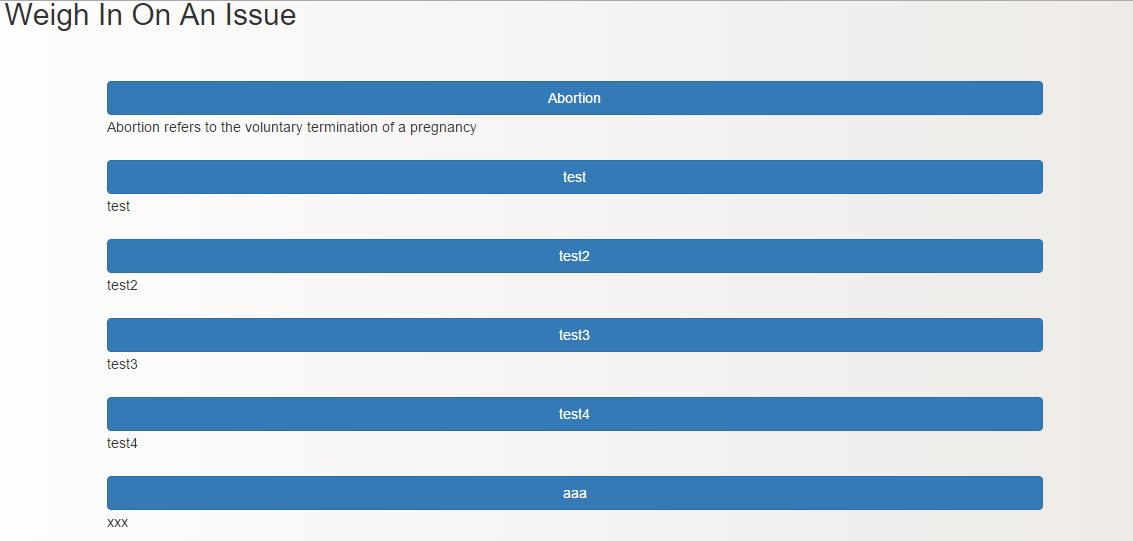
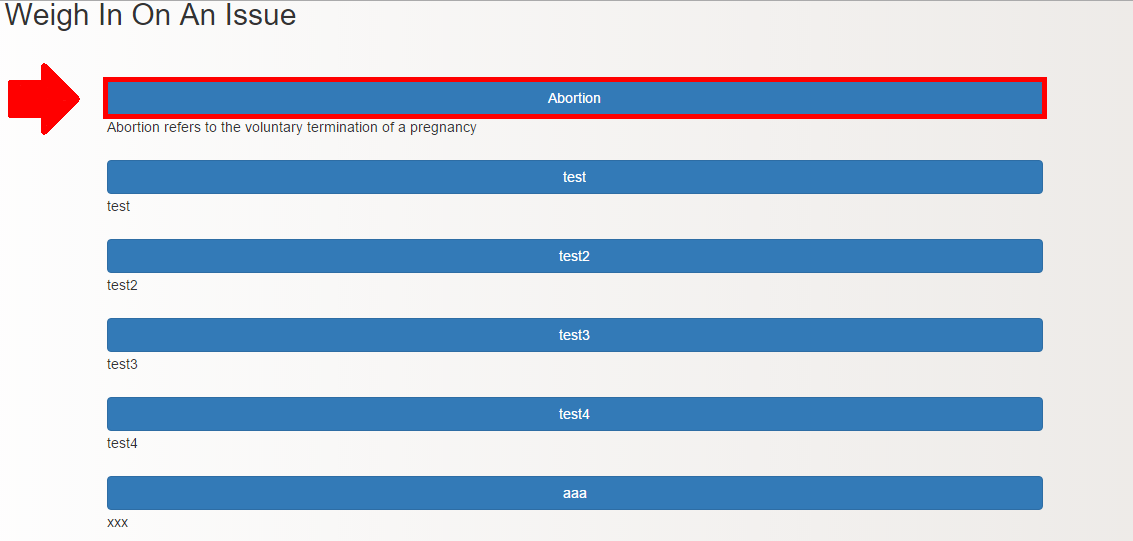
Added help page text content. Added some image highlights. Added 'Contact Us' and 'About Us' tabs. Removed 'Getting Started' tab

Changed region(s): [[0.0, 0.1183, 0.9267, 0.2366]]

diff --git a/public/dev/pages/help.html b/public/dev/pages/help.html
@@ -1,41 +1,93 @@
 <div ng-controller="help-controller as help">
     <div class="container">
         <ul class="nav nav-pills nav-justified">
-            <li class="active"><a style="cursor:pointer" data-toggle="pill" data-target="#menu1">Getting Started</a></li>
-            <li><a style="cursor:pointer" data-toggle="pill" data-target="#menu2">Choosing an Issue</a></li>
-            <li><a style="cursor:pointer" data-toggle="pill" data-target="#menu3">Weighing In</a></li>
-            <li><a style="cursor:pointer" data-toggle="pill" data-target="#menu4">Interpreting Results</a></li>
-            <li><a style="cursor:pointer" data-toggle="pill" data-target="#menu5">FAQ</a><li>
+            <li class="active"><a style="cursor:pointer" data-toggle="pill" data-target="#menu1">Choosing an Issue</a></li>
+            <li><a style="cursor:pointer" data-toggle="pill" data-target="#menu2">Weighing In</a></li>
+            <li><a style="cursor:pointer" data-toggle="pill" data-target="#menu3">Interpreting Results</a></li>
+            <li><a style="cursor:pointer" data-toggle="pill" data-target="#menu4">About Us</a></li>
+            <li><a style="cursor:pointer" data-toggle="pill" data-target="#menu5">Contact Us</a></li>
         </ul>
 
         <div class="tab-content">
             <div id="menu1" class="tab-pane fade in active">
-                <h3>Getting Started</h3>
-                <p>Welcome to DemocracyLab!</p>
-                <p style="text-align: center"><img src="./images/login.png" style="max-width: 100%; height: auto"></p>
-                <p>Test test test</p>
-                <p style="text-align: center"><img src="./images/create_account.png" style="max-width: 100%; height: auto"></p>
+                <h3>Choosing an Issue</h3>
+                <p><img src="./images/issues.png" style="max-width: 60%; height: auto; float: right; padding-left: 1%">
+                After signing in you will be shown a list of issues to weigh in on. If you see an issue that you would like to express your opinion on, just
+                click on the blue bar and a poll will drop down below it. This takes us to our next step: Weighing In!</p>
             </div>
             <div id="menu2" class="tab-pane fade">
-                <h3>Choosing an Issue</h3>
-                <p></p>
-                <p style="text-align: center"><img src="./images/issues.png" style="max-width: 100%; height: auto"></p>
-
+                <h3>Weighing In</h3>
+                <p><img src="./images/weigh_in.png" style="max-width: 60%; height: auto; float: right; padding-left: 1%">
+                Once an issue has been selected, it's time to weigh in. Starting with Values(1), simply drag the values on the left, one by one, into the bucket on the right
+                that best describes how you feel about it. After all the values have been assigned it's time to move on by clicking on the Objectives(2) tab. From here the process
+                is repeated only this time it's objectives that are dragged from left to right. Finally we move onto the last tab, Policies(3) where we repeat the process one last time.
+                Once all values, objectives and policies have been ranked it's time to click the green Submit button and move onto Interpreting Results.</p>
             </div>
             <div id="menu3" class="tab-pane fade">
-                <h3>Weighing In</h3>
-                <p></p>
-                <p style="text-align: center"><img src="./images/weigh_in.png" style="max-width: 100%; height: auto"></p>
+                <h3>Interpreting Results</h3>
+                <p>After all the values, objectives and policies have been ranked you'll be presented with two types of visualizations of the data: a stacked bar chart each for Values, Objectives and Policies and a single Sankey diagram.</p>
+                <p><img src="./images/bar_chart.png" style="max-width: 60%; height: auto; float: right; padding-left: 1%"><strong>Stacked Bar Chart</strong><br>
+                The first visualization is a stacked bar chart.
+                Along the left side of the bar chart, depending on which tab is selected, all the values, objectives or policies are listed.
+                The numbers on the bottom of the chart correspond to how many people have participated in this particular issue.
+                The bars themselves are color coded according to how people felt about the value, objective or policy with a black circle indicating how you voted. For example, looking at
+                the chart to the right, we can see that:</p>
+                <ul>
+                    <li>42 people in total have participated in this issue</li>
+                    <li>5 people strongly disagree that Compassion influences their feelings on this particular issue</li>
+                    <li>9 people disagree that Compassion influences their feelings on this particular issue</li>
+                    <li>3 people have no opinion about how Compassion influences their feelings on this particular issue</li>
+                    <li>11 people agree that Compassion influences their feelings on this particular issue</li>
+                    <li>14 people strongly agree that Compassion influences their feelings on this particular issue</li>
+                    <li>You strongly agree that Compassion influences your feelings on this particular issue</li>
+                </ul>
+                <br>
+                <p><img src="./images/sankey.png" style="max-width: 60%; height: auto; float: left; padding-right: 1%"><strong>Sankey Diagram</strong><br></strong>
+                The second visualization is known as a Sankey diagram. It's a type of flow diagram where the width of the connection is proportional to the influence. In our Sankey diagram
+                all the values are on the left, the objectives are in the middle and the policies are on the right. Using the diagram to the left we can gain some insight into the connections between
+                the values, objectives and policies. For example:</p>
+                <ul>
+                    <li>Most people who value Life agree with restricting access to abortions</li>
+                    <li>Few people who value Life agree with maintaining access to abortions</li>
+                    <li>Very few people who agree with abolishing all abortion agree with investing in birth control education programs</li>
+                </ul>
             </div>
             <div id="menu4" class="tab-pane fade">
-                <h3>Interpreting Results</h3>
-                <p></p>
-                <p style="text-align: center"><img src="./images/bar_chart.png" style="max-width: 100%; height: auto"></p>
-                <p style="text-align: center"><img src="./images/sankey.png" style="max-width: 100%; height: auto"></p>
+                <h3>About Us</h3>
+                <br>
+                <p>DemocracyLab’s <strong>mission</strong> is to improve the democratic process and produce collaborative solutions to public policy problems.
+                <br>Our <strong>vision</strong> is to help communities throughout the world engage their members to make better decisions and create positive change through collective action.</p>
+                <p>The <strong>values</strong> that inform our work include:</p>
+                <ul>
+                    <li><strong>Freedom of Speech </strong>– We believe in the fundamental right of all human beings to think and express themselves freely.</li>
+                    <li><strong>Democracy </strong>– We believe in the power of the vote, and in the legitimacy of the democratic process as a means to make collective decisions.</li>
+                    <li><strong>Public Participation </strong>– We believe that a politically engaged and active citizenry is essential to a healthy society.</li>
+                    <li><strong>Individual</strong> <strong>Intelligence </strong>– We believe that the power of reason is the defining characteristic of human beings, and that every individual has the ability to make a unique contribution to society’s betterment.</li>
+                    <li><strong>Collective Wisdom </strong>– We believe that the gathering and aggregating of the intelligence of individuals can consistently yield effective solutions to societal problems.</li>
+                </ul><br>
+                <h4><strong>Who We Are</strong></h4>
+                <p><img src="./images/mark_cropped.jpg" style="max-width: 10%; height: auto; float: left; padding-right: 1%">
+                    <strong>Founder and Board Chair – Mark Frischmuth</strong><br>
+                    Mark founded DemocracyLab out of a desire to use technology to engage people in creating collaborative solutions to political problems.
+                    He believes that the principles of open source technology can be applied to politics to develop new ways of cultivating our collective intelligence.
+                </p>
             </div>
             <div id="menu5" class="tab-pane fade">
-                <h3>FAQ</h3>
-                <p></p>
+                <h3>Contact Us</h3>
+                <br>
+                <h4><strong>Have an Issue You Would Like to See Added?</strong></h4>
+                <p>Shoot us an message at <a href="mailto:info@democracylab.org">info@democracylab.org</a> with the following information:</p>
+                <ul>
+                    <li>Title</li>
+                    <li>Description of Issue</li>
+                    <li>List of Values associated with Issue</li>
+                    <li>List of Objectives associated with Issue</li>
+                    <li>List of Policies associated with Issue</li>
+                </ul>
+                <p>Please limit your Values, Objectives and Policies to no more than 7 each @ no more than 30 characters.</p>
+                <br>
+                <h4><strong>Questions, Comments or Concerns?</strong></h4>
+                <p>Drop us a line at <a href="mailto:info@democracylab.org">info@democracylab.org</a></p>
             </div>
         </div>
     </div>
